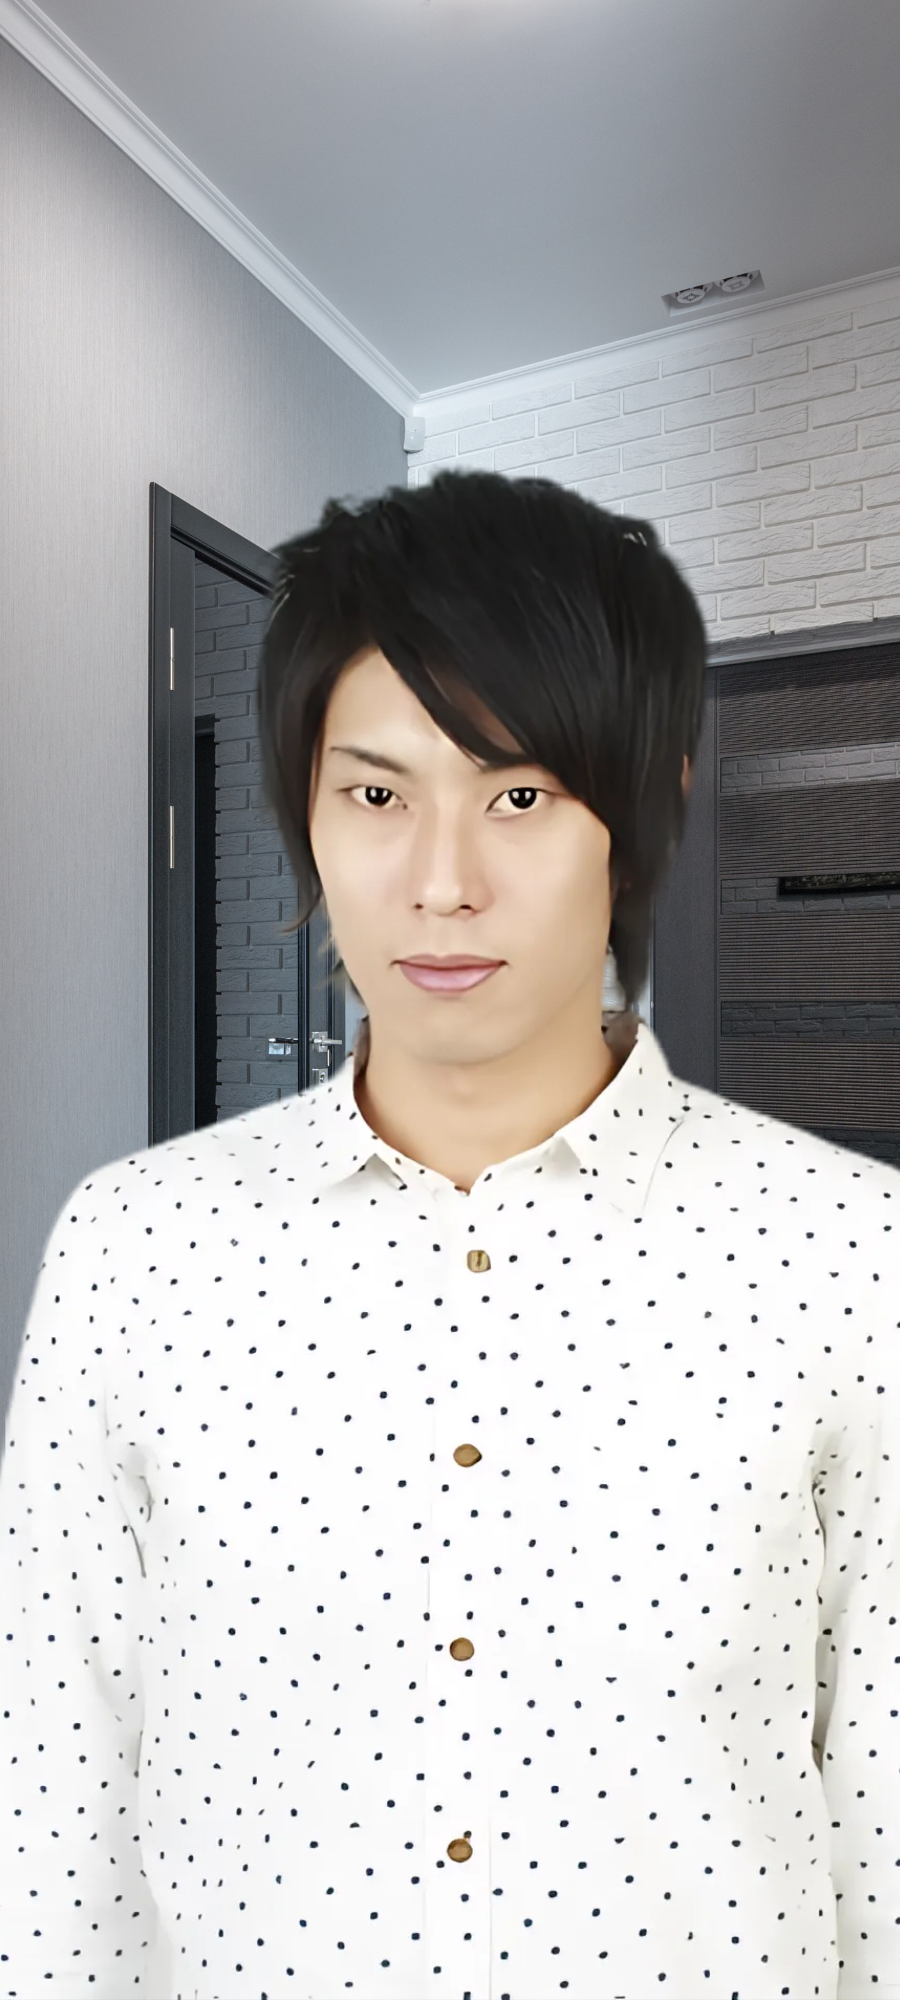
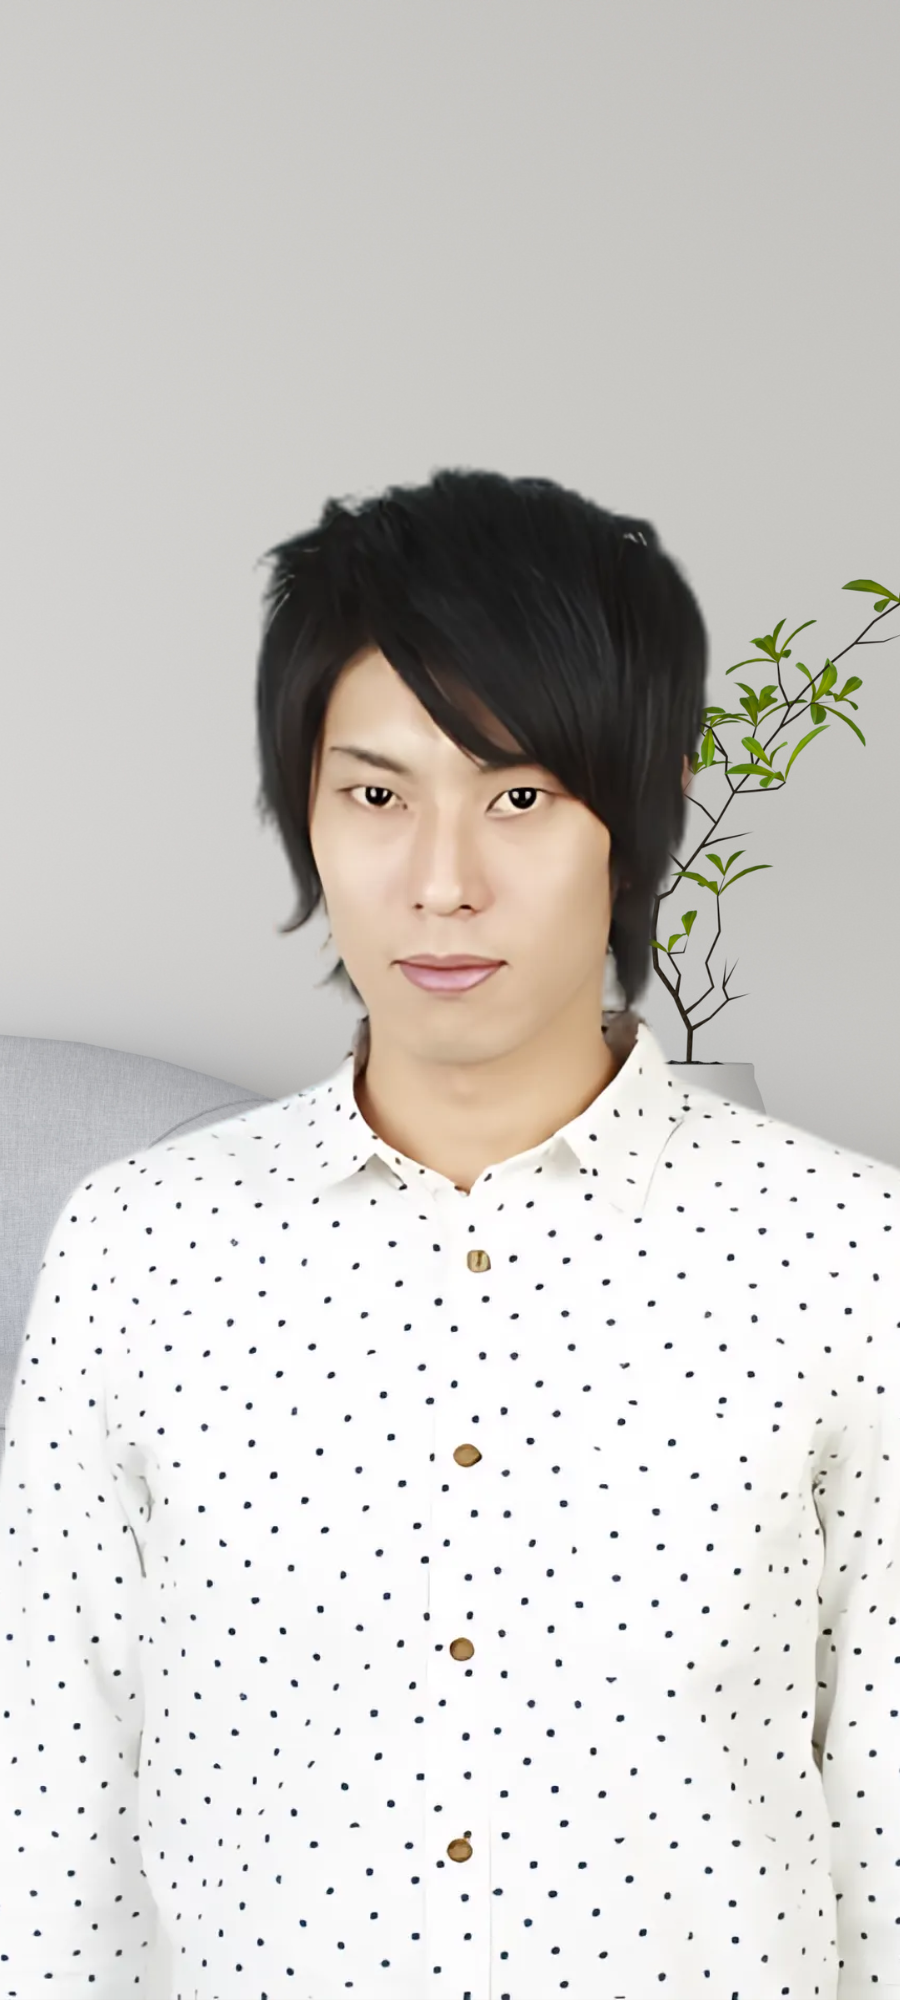
1階のほとんどが完成

diff --git a/components/common/SideMenu.tsx b/components/common/SideMenu.tsx
@@ -128,7 +128,15 @@ export default function SideMenu() {
 			setUnlockingStageId(null);
 			return setStage3Accessible("true");
 		}
-		alert("キーワードが間違っています");
+
+		// unlockingStageIdごとのエラーメッセージを追加
+    if (unlockingStageId === 1) {
+			alert("キーワードが間違っています。ヒントは「徒歩1分」です");
+		} else if (unlockingStageId === 2) {
+			alert("キーワードが間違っています。");
+		} else if (unlockingStageId === 3) {
+			alert("キーワードが間違っています");
+		}
 	};
 
 	return (
@@ -215,8 +223,8 @@ export default function SideMenu() {
 						<FormInput
 							placeholder={
 								unlockingStageId === 1 ? "犯人の住んでいるマンション名" :
-								unlockingStageId === 2 ? "" :
-								unlockingStageId === 3 ? "" :
+								unlockingStageId === 2 ? "△△で〇〇" :
+								unlockingStageId === 3 ? "張り紙のキーワード" :
 								"キーワードを入力してください"
 							}
 							onSubmit={handleUnlock}

diff --git a/app/stage1/3rd-floor/_components/View2.tsx b/app/stage1/3rd-floor/_components/View2.tsx
@@ -39,7 +39,7 @@ export function View2() {
 		},
 		{
 			type: "text",
-			name: "",
+			name: "ナレーション",
 			text: "（安井が部屋に戻り、しばらくして封筒を持ってくる）",
 		},
 		{
@@ -55,16 +55,18 @@ export function View2() {
 		},
 		{
 			type: "text",
-			name: "",
+			name: "ナレーション",
 			text: "（主人公は安井に礼を言い、封筒の中身を持ち帰り、新たな謎を解き明かすために動き出す）",
 		},
 	];
 
 	return (
-		<div className="h-full flex flex-col justify-end">
-			<ScrollableChatWindow>
-				<DialogueController dialogues={dialogues} />
-			</ScrollableChatWindow>
-		</div>
+		<div className="h-full w-full absolute bg-[url('/rental-yasui.png')] bg-cover bg-center">
+      <div className="h-full flex flex-col justify-end">
+				<ScrollableChatWindow>
+					<DialogueController dialogues={dialogues} />
+				</ScrollableChatWindow>
+			</div>
+    </div>
 	);
 }

diff --git a/components/common/FormDialogue.tsx b/components/common/FormDialogue.tsx
@@ -19,6 +19,7 @@ export const FormDialogue: React.FC<FormDialogueProps> = ({
 	text,
 	formName,
 	formPlaceholder,
+	hint,
 	answer,
 	onClear,
 }) => {
@@ -39,7 +40,7 @@ export const FormDialogue: React.FC<FormDialogueProps> = ({
 			setIsCleared(true);
 			onClear();
 		} else {
-			alert("不正解です。もう一度試してください。");
+			alert(`不正解です。もう一度試してください。`);
 		}
 	};
 
@@ -51,9 +52,12 @@ export const FormDialogue: React.FC<FormDialogueProps> = ({
 			</p>
 			<div className="text-white text-left">
 				{isCleared ? (
-					<p>答え: {answer}</p>
+					<p>{answer}で正解です。</p>
 				) : (
-					<FormInput placeholder={formPlaceholder} onSubmit={handleSubmit} />
+					<>
+						{hint && <p>ヒント：{hint}</p>}
+						<FormInput placeholder={formPlaceholder} onSubmit={handleSubmit} />
+					</>
 				)}
 			</div>
 		</div>

diff --git a/app/stage1/4th-floor/_components/View1.tsx b/app/stage1/4th-floor/_components/View1.tsx
@@ -12,7 +12,9 @@ export function View1() {
 			name: "主人公",
 			text: "こんにちは。突然で申し訳ないのですが、少しお話を伺えますか？",
 		},
-		{ type: "text", name: "住人", text: "うん？大丈夫だけど…" },
+		{ type: "text", 
+			name: "住人", 
+			text: "うん？大丈夫だけど…" },
 		{
 			type: "text",
 			name: "主人公",
@@ -26,7 +28,7 @@ export function View1() {
 		{
 			type: "text",
 			name: "岸",
-			text: "今はフリーターで○○になろうと思って勉強中です。大学生か…そうだなあ…ああ、そういえば妙な挨拶をしてきた子がいたよ。",
+			text: "今はフリーターでpilotになろうと思って勉強中です。大学生か…そうだなあ…ああ、そういえば妙な挨拶をしてきた子がいたよ。",
 		},
 		{
 			type: "text",

diff --git a/app/stage1/3rd-floor/_components/View1.tsx b/app/stage1/3rd-floor/_components/View1.tsx
@@ -7,14 +7,16 @@ import {
 
 export function View1() {
 	const dialogues: DialogueProps[] = [
-		{ type: "text", name: "", text: "誰もいないようだ" },
+		{ type: "text", name: "ナレーション", text: "誰もいないようだ" },
 	];
 
 	return (
-		<div className="h-full flex flex-col justify-end">
-			<ScrollableChatWindow>
-				<DialogueController dialogues={dialogues} />
-			</ScrollableChatWindow>
-		</div>
+		<div className="h-full w-full absolute bg-[url('/rental-3rd-floor.png')] bg-cover bg-center">
+      <div className="h-full flex flex-col justify-end">
+				<ScrollableChatWindow>
+					<DialogueController dialogues={dialogues} />
+				</ScrollableChatWindow>
+			</div>
+    </div>
 	);
 }

diff --git a/app/stage1/1st-floor/_components/View1.tsx b/app/stage1/1st-floor/_components/View1.tsx
@@ -41,7 +41,7 @@ export function View1() {
 			formName: "room302",
 			formPlaceholder: "部屋番号を入力してください",
 			answer: "302",
-			hint: "3桁の部屋番号を入力してください",
+			hint: "他の住人やSHINDAI HUB 賃貸の口コミ情報を参考にしてください。",
 			onClear: () => console.log("クリアされました！"),
 		},
 		//正解のモーダル　もしくは　不正解のモーダルが表示される。正解の場合は

diff --git a/app/stage1/3rd-floor/layout.tsx b/app/stage1/3rd-floor/layout.tsx
@@ -1,7 +1,7 @@
 export default function Layout({ children }: { children: React.ReactNode }) {
 	return (
-		<div className="h-full rounded-xl relative bg-cover bg-center bg-[url('/building.png')]">
-			{children}
-		</div>
-	);
+    <div className="h-full rounded-xl relative bg-cover bg-center">
+      {children}
+    </div>
+  );
 }
